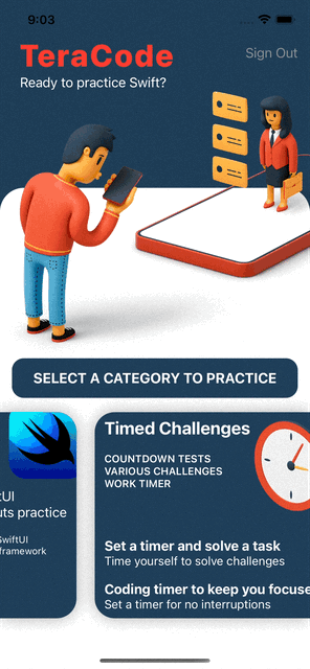
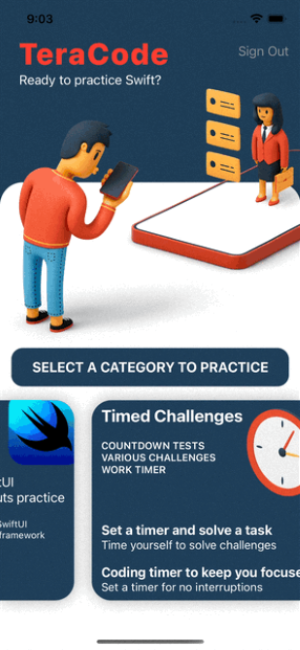
Timeline padding, projects json, main page images fix
Timeline padding, projects json, main page images fix

diff --git a/src/pages/Projects.jsx b/src/pages/Projects.jsx
@@ -4,36 +4,24 @@ import house_stars from '../assets/ai/house-stars.webp'
 import me from '../assets/ai/me1.jpg'
 import { HiOutlineExternalLink } from 'react-icons/hi'
 import { BsGithub, BsLightbulb, BsLinkedin, BsLightbulbOffFill, BsFillFileEarmarkTextFill, BsFillMoonStarsFill } from 'react-icons/bs'
+import projectsList from '../components/ProjectCardsPage/Projects'
 
 export default function Projects() {
   return (
-    <div className=" ">
-      <div className="cont mb-5 grid grid-cols-4 flex-wrap gap-3.5 px-3.5 sm:px-0">
-        {/* <div className="col-span-full row-span-1 flex flex-col rounded-2xl border border-[#ebebeb] bg-[#f1f0ee] p-6 text-center dark:bg-[#edeeef]">
-          <div className="flex items-start justify-between ">
-            <div className="flex flex-col">
-              <h1 className="text-left font-noto text-3xl font-semibold text-[#202124] dark:text-[#383b41] md:text-4xl">Note</h1>
-            </div>
-          </div>
-
-          <hr className="my-2" />
-
-          <p className="text-md text-justify font-roboto text-gray-600 dark:text-[#383b41] md:text-lg">
-            These are my personal projects I have worked on during university and after graduating.
-            <br /> <br />
-            I build applications that I would use myself, that would keep me motivated to work on and learn every day.
-            <br /> <br />
-            My interests lie more within Frontend, but I also enjoy working with Full-Stack applications.
-          </p>
-        </div> */}
-
+      <div className="cont mt-2 mb-5 grid grid-cols-4 flex-wrap gap-3.5 px-3.5 sm:px-0">
         <div className="car mainCard col-span-4 row-span-2 lg:col-span-4">
           <div className="">
             <div className="flex justify-between">
               <h1 className="mb-1 text-left font-noto text-3xl  text-[#202124] dark:text-[#383b41] md:mb-3 md:text-4xl">Projects</h1>
             </div>
+
             <hr className="mb-3.5" />
-            <div className="wrap flex grid grid-cols-4 grid-rows-3 flex-wrap gap-5 xl:grid-cols-3 ">
+            
+            <div className="wrap grid grid-cols-4 grid-rows-3 flex-wrap gap-5 xl:grid-cols-3 ">
+              {projectsList.map((project) => (
+                <div key={project.id}>{project.name}</div>
+              ))}
+
               <div className="col-span-full  h-80 flex-wrap overflow-hidden rounded-xl bg-[#ffffff] shadow-md md:col-span-2 xl:col-span-1">
                 <p>Image</p>
               </div>
@@ -69,20 +57,20 @@ export default function Projects() {
           </div>
         </div>
 
-        <div className="col-span-4 grid grid-cols-3 gap-3.5 md:grid-cols-4 3xl:grid-cols-4">
-          <div className="col-span-3 h-80  flex-wrap overflow-hidden rounded-xl bg-[#f1f0ee] shadow-md md:col-span-2 lg:col-span-1 2xl:col-span-1 ">
+        <div className="col-span-4 grid grid-cols-3 gap-3.5  grid-cols-4 lg:grid-cols-3 3xl:grid-cols-4">
+          <div className="col-span-4 h-80  flex-wrap overflow-hidden rounded-xl bg-[#f1f0ee] shadow-md md:col-span-2 lg:col-span-1 2xl:col-span-1 ">
             <p>tewst</p>
           </div>
 
-          <div className="col-span-3 h-80 flex-wrap overflow-hidden rounded-xl bg-[#f1f0ee] shadow-md md:col-span-2 lg:col-span-1 2xl:col-span-1 ">
+          <div className="col-span-4 h-80 flex-wrap overflow-hidden rounded-xl bg-[#f1f0ee] shadow-md md:col-span-2 lg:col-span-1 2xl:col-span-1 ">
             <p>test</p>
           </div>
 
-          <div className="col-span-3 h-80 flex-wrap overflow-hidden rounded-xl bg-[#f1f0ee] shadow-md md:col-span-2 lg:col-span-1 2xl:col-span-1 ">
+          <div className="col-span-4 h-80 flex-wrap overflow-hidden rounded-xl bg-[#f1f0ee] shadow-md md:col-span-2 lg:col-span-1 2xl:col-span-1 ">
             <p>test</p>
           </div>
 
-          <div className="col-span-3 h-80 flex-wrap overflow-hidden rounded-xl bg-[#f1f0ee] shadow-md md:col-span-2 lg:col-span-1 2xl:col-span-1">
+          <div className="col-span-4 h-80 flex-wrap overflow-hidden rounded-xl bg-[#f1f0ee] shadow-md md:col-span-2 lg:col-span-1 2xl:col-span-1">
             <p>test</p>
           </div>
         </div>
@@ -149,7 +137,6 @@ export default function Projects() {
             <img src={house_stars} alt="asd" className="h-full w-full overflow-hidden rounded-xl" />
           </div>
         </div>
-      </div>
     </div>
   )
 }

diff --git a/src/components/ProjectCardsPage/Projects.js b/src/components/ProjectCardsPage/Projects.js
@@ -1,0 +1,71 @@
+const projectsList = [
+  {
+    id: 1,
+    name: 'Nutrition Tracker',
+    description:
+      'This is a personal Nutrition Tracker project with React and Vanilla CSS that allows users to calculate their daily nutrient intake and hit desired goals.',
+    technologies: ['React', 'CSS'],
+  },
+  {
+    id: 2,
+    name: 'Rently marketplace',
+    description:
+      'A real estate property portal to assist with finding the right home to rent or buy. It focuses more on the renting market, gathering rent listings within desired filters to choose the right home.',
+    technologies: ['React', 'Vite', 'TailwindCSS', 'Firebase', 'Firestore', 'Firebase Auth'],
+  },
+  {
+    id: 3,
+    name: 'MERN Ticket tracker',
+    description:
+      'A full-stack support ticket desk application that allows users to create tickets, describe their issue, select a product and track the issue progress, as well as close the tickets if fixed.',
+    technologies: ['React', 'Node.js', 'Express.js', 'MongoDB', 'Redux', 'TailwindCSS'],
+  },
+  {
+    id: 4,
+    name: 'Github Finder',
+    description: ' it in a view.',
+    technologies: ['Swift', 'SwiftUI'],
+  },
+  {
+    id: 5,
+    name: 'iOS Weather App',
+    description:
+      'A Weather App for iOS written in SwiftUI. It was created during university as part of the Mobile Development Module at University of Westminster. The app is simple and allows users to retrieve weather details for their current location. The learning outcomes were to understand the fundamentals of Swift and SwiftUI and how to use it to build an iOS app, as well as fetch data from an external API and display it in a view.',
+    technologies: ['Swift', 'SwiftUI'],
+  },
+
+  {
+    id: 6,
+    name: 'iOS Coding Quiz App',
+    description: 'A Programming concepts quiz app for iOS written in SwiftUI. This app was built as part of the Final Year Project module at Westminster University, and constitutes the practical part of my extensive research into the use of technology in classrooms to practice, learn and review material in form of tests or quizes.',
+    technologies: ['Swift', 'SwiftUI'],
+  },
+  {
+    id: 7,
+    name: 'Prompt AI Image generator',
+    description: 'A project that allows users to type a prompt, select a style and generate an image using the DALL-E API.',
+    technologies: ['Typescript', 'Next.js', 'GoogleAuth', 'Prisma', 'SQLite', 'tRPC', 'Tailwind CSS', 'DALL-E API'],
+  },
+  {
+    id: 8,
+    name: 'Bug Tracker ',
+    description: 'A Bug Tracker application using Java Spring Boot and Thymeleaf for front-end. The purpose of this application was to extend my Java knowledge from university and learn the fundamentals of backend Spring Boot. Users can create tickets, assign them to projects and projects to companies. The database used for the relationships is MySQL. ',
+    technologies: ['Java', 'Spring Boot', 'Thymeleaf', 'CSS', 'MySQL'],
+  },
+  {
+    id: 9,
+    name: 'iOS Financial Calculator',
+    description:
+      'A Financial Calculator for iOS written in UIKIT. This was the introduction to iOS project at university as part of the Mobile Development Module. The app allows users to calculate mortgage payments, loans and compound savings.',
+    technologies: ['Swift', 'UIKIT'],
+  },
+  {
+    id: 10,
+    name: 'Portfolio Website',
+    description:
+      'This website that you are seeing is built using React and Tailwind. The purpose of this website is to showcase my projects and my skills in a responsive and appealing manner. One of my target goals for this website was to learn how to build cleaner designs, improve appeal using animations, and practice React with ideas from all my other projects I built. Building this after experiencing multiple projects gave me the freedom to focus more on design.',
+    technologies: ['Swift', 'UIKIT'],
+  },
+]
+
+export default projectsList

diff --git a/src/components/ProjectCards.jsx b/src/components/ProjectCards.jsx
@@ -29,18 +29,18 @@ export default function Projects() {
                   <br /> <br />
                   Stack used: React, Vanilla CSS */}
               </p>
-              <img src={nutrition} className="rounded-xl" alt="home" />
+              <img src={nutrition} className="card2 rounded-xl" alt="home" />
             </div>
 
-            <div className="flex flex-col items-center justify-center  rounded-2xl border-2 border-[#ebebeb] bg-[#f1f0ee] p-1 text-center lg:col-span-1">
-              <div className=" flex-wrap overflow-hidden rounded-xl">
-                <img src={ios} className="rounded-2xl " alt="weather" />
+            <div className="cardQuiz flex flex-col items-center justify-center rounded-2xl border-2 border-[#ebebeb] bg-[#f1f0ee] text-center lg:col-span-1">
+              <div className="card2 flex flex-wrap min-h-full min-w-full p-2  justify-center xl:p-3 2xl:py-4 overflow-hidden rounded-xl">
+                <img src={ios} className=" min-h-full max-w-full cursor-pointer rounded-2xl " alt="quiz" />
               </div>
             </div>
 
-            <div className="flex flex-col items-center justify-center  rounded-2xl border-2 border-[#ebebeb] bg-[#f1f0ee] p-1 text-center lg:col-span-1">
-              <div className=" flex-wrap overflow-hidden rounded-xl">
-                <img src={iOS_quiz} className="rounded-2xl" alt="quiz" />
+            <div className="cardQuiz flex flex-col items-center justify-center rounded-2xl border-2 border-[#ebebeb] bg-[#f1f0ee] text-center lg:col-span-1">
+              <div className="card2 flex flex-wrap min-h-full min-w-full p-2   justify-center xl:p-3 2xl:py-4 overflow-hidden rounded-xl">
+                <img src={iOS_quiz} className=" min-h-full max-w-full  rounded-lg cursor-pointer " alt="quiz" />
               </div>
             </div>
           </div>

diff --git a/src/components/Time.jsx b/src/components/Time.jsx
@@ -4,11 +4,10 @@ export default function Time() {
   //https://tailwindcomponents.com/component/vertical-timeline-1
   return (
     <section className="rounded-xl px-0 text-left text-gray-700 dark:text-gray-100 ">
-      <div className=" mx-auto max-w-full py-12 ">
-        <div className="grid sm:grid-cols-12">
-          <div className="col-span-12 sm:col-span-12"></div>
-          <div className="relative col-span-12 space-y-6 px-0 sm:col-span-12 sm:px-6 md:px-24 xl:mx-auto xl:max-w-[90%]">
-            <div className="relative col-span-12 space-y-12 px-4 before:bg-gray-500 before:dark:bg-gray-400 sm:col-span-12 sm:space-y-8 sm:before:absolute sm:before:-left-3 sm:before:bottom-0 sm:before:top-2 sm:before:w-0.5">
+      <div className=" mx-auto max-w-full py-6 ">
+        <div className="grid">
+          <div className="relative col-span-12 space-y-6 px-3  md:px-3 xl:mx-auto xl:max-w-[90%] 3xl:max-w-[80%]">
+            <div className="relative col-span-12 space-y-12 px-4 before:bg-gray-500 before:dark:bg-gray-600 sm:col-span-12 sm:space-y-8 sm:before:absolute sm:before:-left-3 sm:before:bottom-0 sm:before:top-2 sm:before:w-0.5">
               <div className="cardHoverShadow flex max-w-full flex-col rounded-lg bg-[#ffffff] px-5 py-4 text-gray-700 before:bg-[#0069b9] sm:relative sm:before:absolute sm:before:left-[-35px] sm:before:top-2 sm:before:z-[1] sm:before:h-4 sm:before:w-4 sm:before:rounded-full md:px-8">
                 <h3 className="font-inter text-xl font-bold tracking-wide">Web Developer Internship @ Voyager Seville</h3>
                 <time className="mb-2 text-xs uppercase tracking-wide dark:text-gray-400">June 2019 - July 2019</time>

diff --git a/src/App.css b/src/App.css
@@ -7,13 +7,12 @@
   //font-family: 'Roboto', sans-serif;
 }
 
-
 .mainCard {
-  @apply rounded-2xl border border-[#ebebeb] bg-[#f1f0ee] p-7 text-center dark:bg-[#edeeef] 
+  @apply rounded-2xl border border-[#ebebeb] bg-[#f1f0ee] p-7 text-center dark:bg-[#edeeef];
 }
 .cardHoverShadow {
-  @apply shadow-sm transition-shadow duration-300 ease-in-out hover:shadow-lg hover:shadow-black/30
-  }
+  @apply shadow-sm transition-shadow duration-300 ease-in-out hover:shadow-lg hover:shadow-black/30;
+}
 /* e3e4e4 DARK MODE SWITCH thanks to: https://uiverse.io/Praashoo7/angry-starfish-78 */
 /* The switch - the box around the slider */
 .switch {
@@ -204,7 +203,6 @@ input:checked + .slider:before {
   scrollbar-width: none; /* Firefox */
 }
 
-
 /* images border */
 .card2:hover {
   transform: scale(0.98);
@@ -221,6 +219,11 @@ input:checked + .slider:before {
   transition: all 0.3s;
 }
 
+.cardQuiz:hover {
+  box-shadow: 0px 5px 40px 2px rgba(31, 63, 88, 0.55);
+  background-image: linear-gradient(146deg, #2eb3c0 0%, rgba(28, 108, 116) 100%);
+  transition: all 0.3s;
+}
 .card {
   transition: all 0.3s;
 }

diff --git a/src/pages/Experience.jsx b/src/pages/Experience.jsx
@@ -4,11 +4,15 @@ import Time from '../components/Time'
 
 export default function Experience() {
   return (
-    <div className="mb-5 gap-3.5 px-3.5 sm:px-0">
-      <div className="col-span-4 rounded-2xl border border-[#e3e4e4] bg-[#f1f0ee] p-7 text-center shadow-xl dark:bg-[#edeeef]">
-        <h1 className="mb-1 text-left  font-noto text-3xl px-10font-semibold text-[#202124] dark:text-[#383b41] md:text-4xl ">Experience Timeline</h1>
-        {/* <Timeline /> */}
-        <Time/>
+      <div className="mb-5 ">
+        <div className="grid grid-cols-4 flex-wrap gap-3.5 px-3.5 sm:px-0">
+        <div className="car col-span-4 rounded-2xl border border-[#e3e4e4] bg-[#f1f0ee] p-7 text-center shadow-xl dark:bg-[#edeeef]">
+          <h1 className="font-semibold mb-1  text-left font-noto text-3xl text-[#202124] dark:text-[#383b41] md:text-4xl ">
+            Experience Timeline
+          </h1>
+          {/* <Timeline /> */}
+          <Time />
+        </div>
       </div>
     </div>
   )

diff --git a/src/pages/About.jsx b/src/pages/About.jsx
@@ -28,9 +28,8 @@ import 'swiper/css/scrollbar'
 
 export default function About() {
   return (
-    <div>
-      <div className="mb-5 ">
-        <div className="cont flex grid grid-cols-4 flex-wrap  gap-3.5 px-3.5 sm:px-0">
+      <div className="mb-5 mt-2">
+        <div className="cont flex grid grid-cols-4 flex-wrap gap-3.5 px-3.5 sm:px-0">
           <div className="col-span-full row-span-1 flex flex-col rounded-2xl border border-[#ebebeb] bg-[#f1f0ee] p-6 text-center dark:bg-[#edeeef] sm:col-span-4 lg:col-span-2 3xl:col-span-2">
             <div className="flex items-start justify-between ">
               <div className="flex flex-col">
@@ -211,6 +210,5 @@ export default function About() {
           </div>
         </div>
       </div>
-    </div>
   )
 }

diff --git a/src/components/ProjectCardsPage/ProjectItem.jsx b/src/components/ProjectCardsPage/ProjectItem.jsx
@@ -1,0 +1,7 @@
+import React from 'react'
+
+export default function ProjectItem() {
+  return (
+    <div>ProjectItem</div>
+  )
+}

diff --git a/src/components/ProjectCardsPage/ProjectList.jsx b/src/components/ProjectCardsPage/ProjectList.jsx
@@ -1,0 +1,7 @@
+import React from 'react'
+
+export default function ProjectList() {
+  return (
+    <div>ProjectList</div>
+  )
+}
